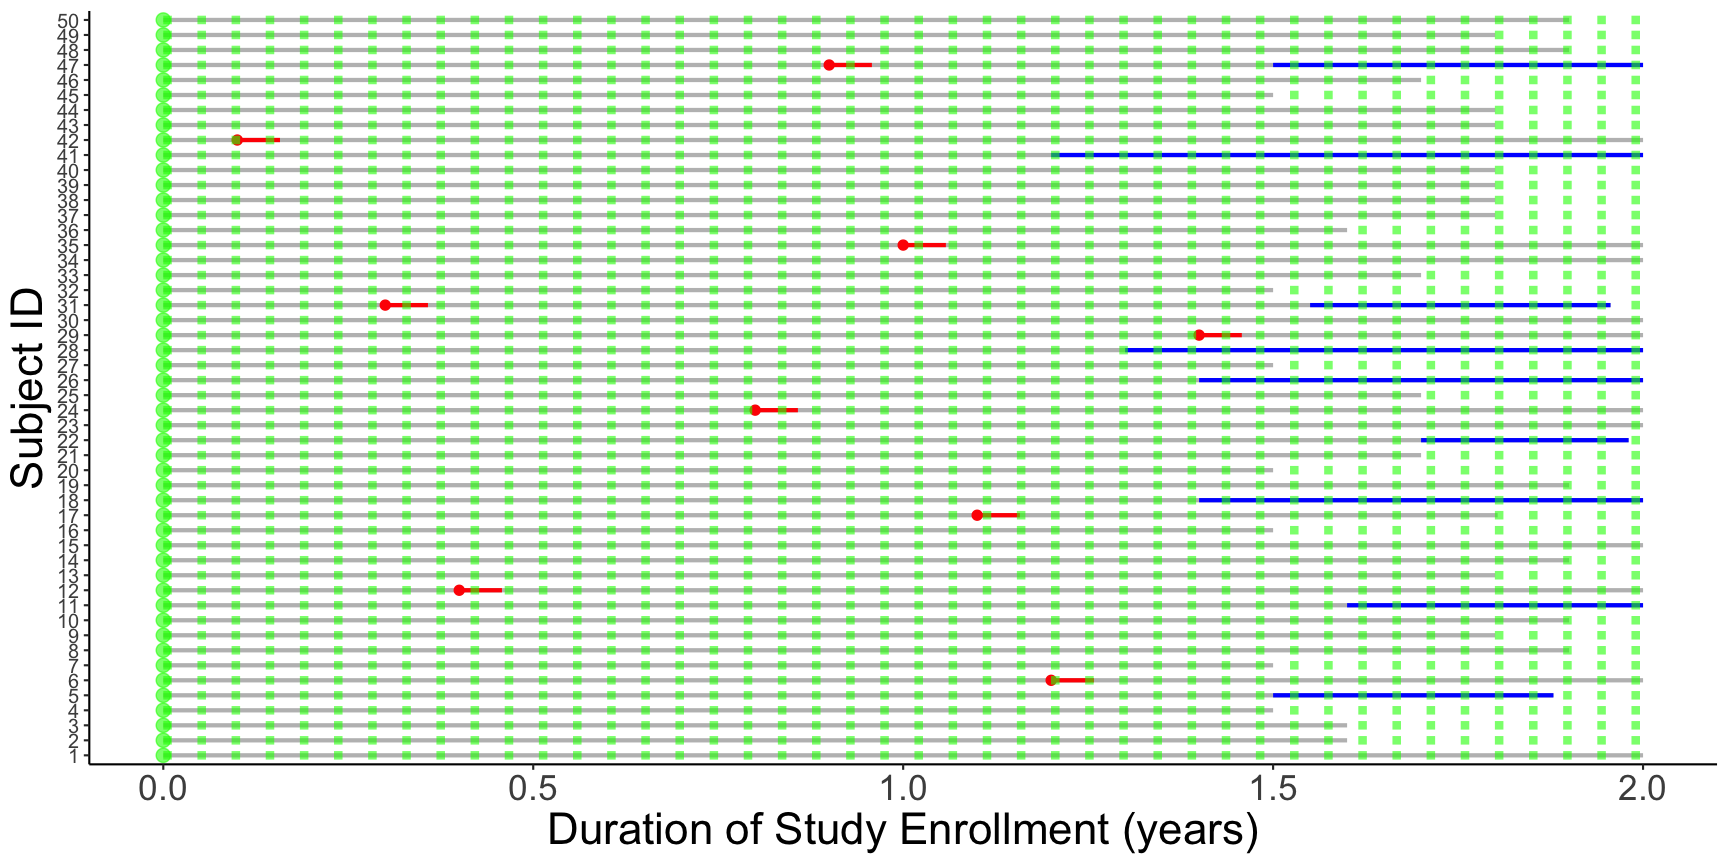
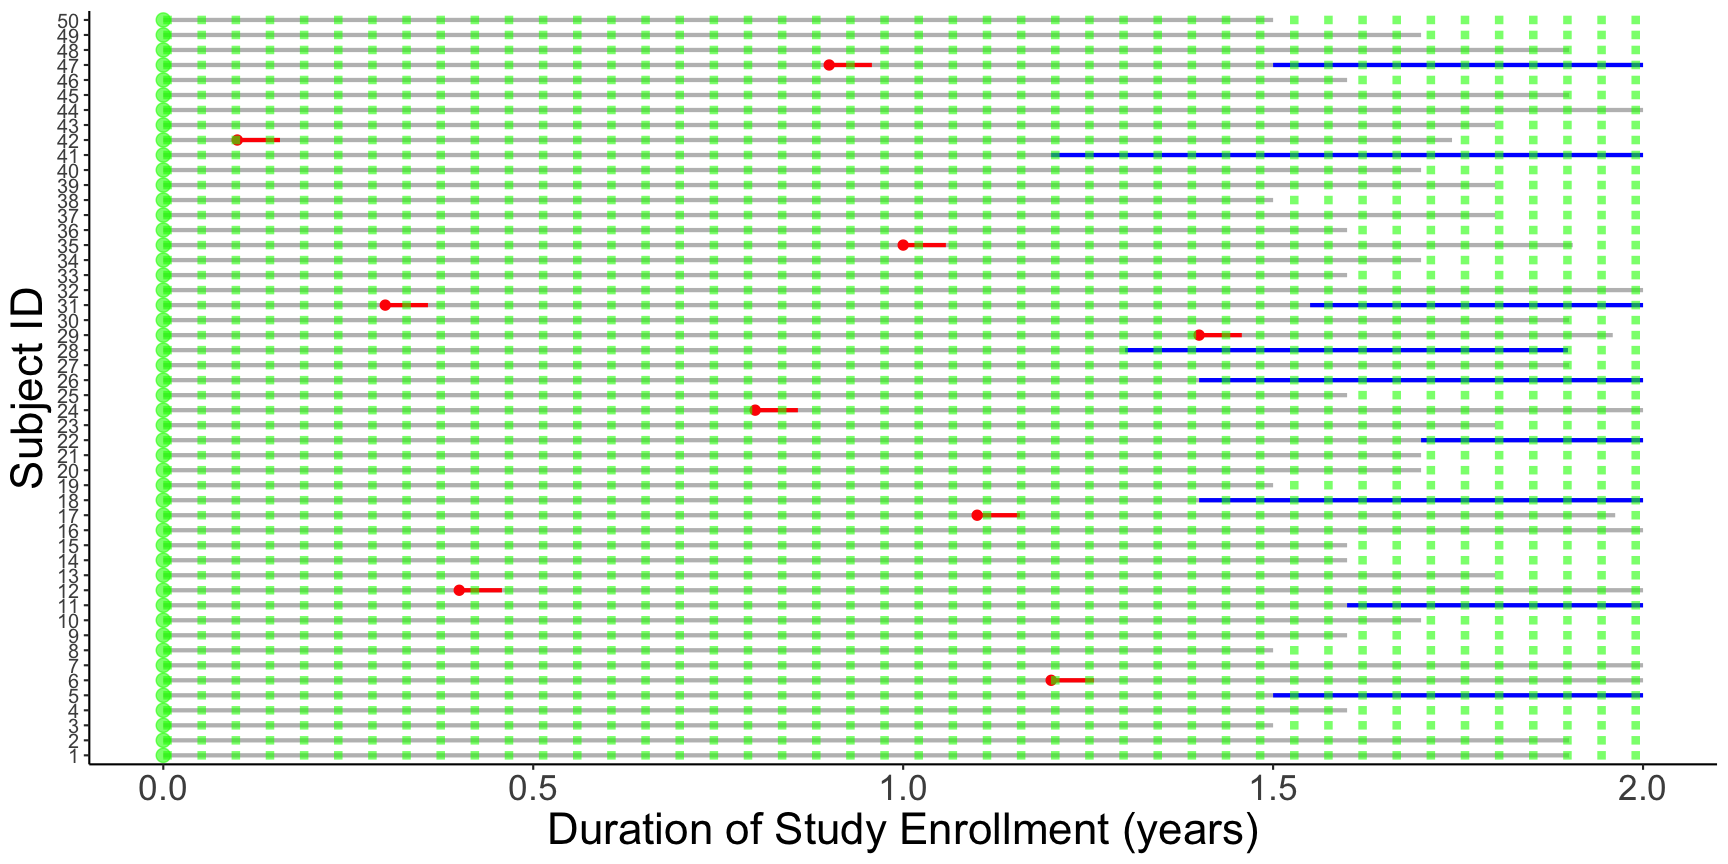
Fix histogram seed and binwidth.

diff --git a/measures_of_disease_in_epidemiology_2019_bjk.html b/measures_of_disease_in_epidemiology_2019_bjk.html
@@ -19,7 +19,7 @@ class: center, middle, inverse, title-slide
 ## <hr/>
 ### Brendan J. Kelly
 ### Infectious Diseases &amp; Epidemiology<br/><br/><img src="penn_logos/Penn-Shield-Logotype-White-over-Blue-RGB-Expanded.svg" width="160" />
-### updated: 2019-10-12
+### updated: 2019-10-13
 
 ---
 
@@ -37,9 +37,6 @@ class: center, middle, inverse, title-slide
 ---
 
 Notes from John:
-
-
-b.       It would be good to have a separate slide on 'person time' and calculating person time.
 
 c.       I think we should use the term "Risk Difference" instead of "Absolute risk reduction."  This should always be "Ie-Iu" but in one of the examples in the lecture, it's reversed and it's presented as "Iu-Ie" which was confusing to them.  We could also define both terms and say RD=Ie-Iu and then absolute risk reduction has to do with the way in which the question is phrased (i.e., improvement is a good outcome or adverse event where the outcome is bad).
 
@@ -281,7 +278,11 @@ What makes standard deviation greater?
 
 ## Characterizing Continuous Data: Skewed or Uniform &lt;hr/&gt;
 
-- “Non-parametric” data have a mean and standard deviation, but these parameters do NOT characterize the data well.
+- “Non-parametric” data have a mean and standard deviation, but these parameters do NOT characterize the data well:  
+
+    - **skewed** data: distrubtion not symmetric around a central value  
+    
+    - **uniform** data: distributed with equal probability of each value across whole range of values  
 
 - For uniform or skewed data, we prefer to use **median** and **interquartile range (IQR)** to describe the distribution of a continuous variable because these are less affected by extreme values. 
   
@@ -434,7 +435,7 @@ class: inverse, center, middle
     
     - incomplete follow-up (abbreviated grey lines on plot)
     
-    - at end of study, subjects started on _Pneumocystis_ prophylaxis (blue lines on plot)  
+    - towards end of study, some subjects started on _Pneumocystis_ prophylaxis (blue lines on plot)  
 
 
 ---
@@ -587,7 +588,7 @@ class: inverse, center, middle
     
     - incomplete follow-up (abbreviated grey lines on plot)
     
-    - at end of study, subjects started on _Pneumocystis_ prophylaxis (blue lines on plot)  
+    - towards end of study, some subjects started on _Pneumocystis_ prophylaxis (blue lines on plot)  
 
 
 
@@ -709,7 +710,6 @@ class: inverse, center, middle
 - Can you tell prevalence from incidence?
 
 
-
 ---
 
 background-image: url(figs/bathtub_labelled.svg)
@@ -792,8 +792,8 @@ class: inverse, center, middle
 
 ---
 
-<div id="htmlwidget-6c891448debd6a18910b" style="width:1080px;height:648px;" class="grViz html-widget"></div>
-<script type="application/json" data-for="htmlwidget-6c891448debd6a18910b">{"x":{"diagram":"digraph {\n\ngraph [layout = \"neato\",\n       outputorder = \"edgesfirst\",\n       bgcolor = \"white\"]\n\nnode [fontname = \"Helvetica\",\n      fontsize = \"10\",\n      shape = \"circle\",\n      fixedsize = \"true\",\n      width = \"0.5\",\n      style = \"filled\",\n      fillcolor = \"aliceblue\",\n      color = \"gray70\",\n      fontcolor = \"gray50\"]\n\nedge [fontname = \"Helvetica\",\n     fontsize = \"8\",\n     len = \"1.5\",\n     color = \"gray80\",\n     arrowsize = \"0.5\"]\n\n  \"1\" [label = \"Study\nDesign\", color = \"black\", fontsize = \"6\", fontcolor = \"black\", fillcolor = \"#E5E5E5\", pos = \"-3,0!\"] \n  \"2\" [label = \"Cohort\", color = \"black\", fontsize = \"6\", fontcolor = \"black\", fillcolor = \"#E5E5E5\", pos = \"-2,0!\"] \n  \"3\" [label = \"Randomized\nControlled\nTrial\", color = \"black\", fontsize = \"5.5\", fontcolor = \"black\", fillcolor = \"#E5E5E5\", pos = \"-2,1!\"] \n  \"4\" [label = \"Case-\nControl\", color = \"black\", fontsize = \"6\", fontcolor = \"black\", fillcolor = \"#E5E5E5\", pos = \"-2,-1!\"] \n  \"5\" [label = \"Denominator\nKnown\", color = \"black\", fontsize = \"6\", fontcolor = \"black\", fillcolor = \"#00FF00\", pos = \"-1,0.5!\"] \n  \"6\" [label = \"Denominator\nNOT Known\", color = \"black\", fontsize = \"6\", fontcolor = \"black\", fillcolor = \"#1E90FF\", pos = \"-1,-0.5!\"] \n  \"7\" [label = \"Measure\nOutcome\nIncidence\", color = \"black\", fontsize = \"6\", fontcolor = \"black\", fillcolor = \"#E5E5E5\", pos = \"0,0.5!\"] \n  \"8\" [label = \"Measure\nExposure\nOdds\", color = \"black\", fontsize = \"6\", fontcolor = \"black\", fillcolor = \"#E5E5E5\", pos = \"0,-0.5!\"] \n  \"9\" [label = \"Relative\nRisk\", color = \"black\", fontsize = \"6\", fontcolor = \"black\", fillcolor = \"#E5E5E5\", pos = \"1,0.5!\"] \n  \"10\" [label = \"Odds\nRatio\", color = \"black\", fontsize = \"6\", fontcolor = \"black\", fillcolor = \"#E5E5E5\", pos = \"1,-0.5!\"] \n  \"11\" [label = \"AR\nARR\nNNT\", color = \"black\", fontsize = \"6\", fontcolor = \"black\", fillcolor = \"#E5E5E5\", pos = \"2,0.5!\"] \n\"1\"->\"2\" [color = \"black\"] \n\"1\"->\"3\" [color = \"black\"] \n\"1\"->\"4\" [color = \"black\"] \n\"2\"->\"5\" [color = \"black\"] \n\"3\"->\"5\" [color = \"black\"] \n\"4\"->\"6\" [color = \"black\"] \n\"5\"->\"7\" [color = \"black\"] \n\"6\"->\"8\" [color = \"black\"] \n\"7\"->\"9\" [color = \"black\"] \n\"8\"->\"10\" [color = \"black\"] \n\"9\"->\"11\" [color = \"black\"] \n}","config":{"engine":"dot","options":null}},"evals":[],"jsHooks":[]}</script>
+<div id="htmlwidget-579c5723c32f497538f2" style="width:1080px;height:648px;" class="grViz html-widget"></div>
+<script type="application/json" data-for="htmlwidget-579c5723c32f497538f2">{"x":{"diagram":"digraph {\n\ngraph [layout = \"neato\",\n       outputorder = \"edgesfirst\",\n       bgcolor = \"white\"]\n\nnode [fontname = \"Helvetica\",\n      fontsize = \"10\",\n      shape = \"circle\",\n      fixedsize = \"true\",\n      width = \"0.5\",\n      style = \"filled\",\n      fillcolor = \"aliceblue\",\n      color = \"gray70\",\n      fontcolor = \"gray50\"]\n\nedge [fontname = \"Helvetica\",\n     fontsize = \"8\",\n     len = \"1.5\",\n     color = \"gray80\",\n     arrowsize = \"0.5\"]\n\n  \"1\" [label = \"Study\nDesign\", color = \"black\", fontsize = \"6\", fontcolor = \"black\", fillcolor = \"#E5E5E5\", pos = \"-3,0!\"] \n  \"2\" [label = \"Cohort\", color = \"black\", fontsize = \"6\", fontcolor = \"black\", fillcolor = \"#E5E5E5\", pos = \"-2,0!\"] \n  \"3\" [label = \"Randomized\nControlled\nTrial\", color = \"black\", fontsize = \"5.5\", fontcolor = \"black\", fillcolor = \"#E5E5E5\", pos = \"-2,1!\"] \n  \"4\" [label = \"Case-\nControl\", color = \"black\", fontsize = \"6\", fontcolor = \"black\", fillcolor = \"#E5E5E5\", pos = \"-2,-1!\"] \n  \"5\" [label = \"Denominator\nKnown\", color = \"black\", fontsize = \"6\", fontcolor = \"black\", fillcolor = \"#00FF00\", pos = \"-1,0.5!\"] \n  \"6\" [label = \"Denominator\nNOT Known\", color = \"black\", fontsize = \"6\", fontcolor = \"black\", fillcolor = \"#1E90FF\", pos = \"-1,-0.5!\"] \n  \"7\" [label = \"Measure\nOutcome\nIncidence\", color = \"black\", fontsize = \"6\", fontcolor = \"black\", fillcolor = \"#E5E5E5\", pos = \"0,0.5!\"] \n  \"8\" [label = \"Measure\nExposure\nOdds\", color = \"black\", fontsize = \"6\", fontcolor = \"black\", fillcolor = \"#E5E5E5\", pos = \"0,-0.5!\"] \n  \"9\" [label = \"Relative\nRisk\", color = \"black\", fontsize = \"6\", fontcolor = \"black\", fillcolor = \"#E5E5E5\", pos = \"1,0.5!\"] \n  \"10\" [label = \"Odds\nRatio\", color = \"black\", fontsize = \"6\", fontcolor = \"black\", fillcolor = \"#E5E5E5\", pos = \"1,-0.5!\"] \n  \"11\" [label = \"AR\nRD\nNNT\", color = \"black\", fontsize = \"6\", fontcolor = \"black\", fillcolor = \"#E5E5E5\", pos = \"2,0.5!\"] \n\"1\"->\"2\" [color = \"black\"] \n\"1\"->\"3\" [color = \"black\"] \n\"1\"->\"4\" [color = \"black\"] \n\"2\"->\"5\" [color = \"black\"] \n\"3\"->\"5\" [color = \"black\"] \n\"4\"->\"6\" [color = \"black\"] \n\"5\"->\"7\" [color = \"black\"] \n\"6\"->\"8\" [color = \"black\"] \n\"7\"->\"9\" [color = \"black\"] \n\"8\"->\"10\" [color = \"black\"] \n\"9\"->\"11\" [color = \"black\"] \n}","config":{"engine":"dot","options":null}},"evals":[],"jsHooks":[]}</script>
 
 
 
@@ -825,9 +825,9 @@ class: inverse, center, middle
 .pull-left[
 - Relative Risk (RR)= [A/(A+B) / C/(C+D)]
 
-- Absolute Risk Reduction (ARR) = [A/(A+B) – C/(C+D)]
+- risk difference (RD) = [A/(A+B) – C/(C+D)]
 
-- Number Needed to Treat (NNT)= 1/ARR
+- Number Needed to Treat (NNT)= 1/RD
 ]
 
 .pull-right[
@@ -851,30 +851,30 @@ background-size: contain
 
 ---
 
-## Absolute Risk (AR) &amp; Reduction (ARR) &lt;hr/&gt;
+## Absolute Risk (AR) &amp; Reduction (RD) &lt;hr/&gt;
 
 - Absolute risk (AR): risk of developing a given disease over a period of time
 
     - this is the incidence!!!
     - if you have a 1 in 10 chance of developing skin cancer in your lifetime, you are said to have a 10% absolute risk
 
-- Absolute risk reduction (ARR): difference in risk between the treatment/ exposure group and the control group
+- risk difference (RD): difference in risk between the treatment/ exposure group and the control group
 
-    - if 2 in 10 are cured in the control group and 3 in 10 in the treatment group, the ARR is 3/10 – 2/10 = 10%
+    - if 2 in 10 are cured in the control group and 3 in 10 in the treatment group, the RD is 3/10 – 2/10 = 10%
 
 ---
 
 ## Number Needed to Treat (NNT) &lt;hr/&gt;
 
-- Number needed to treat (NNT): Number of patients who need to be treated for one person to benefit from the treatment  (= 1/ARR)
+- Number needed to treat (NNT): Number of patients who need to be treated for one person to benefit from the treatment  (= 1/RD)
 
-    - using ARR numbers above, NNT = 1/ARR = 1/0.1 = 10
+    - using RD numbers above, NNT = 1/RD = 1/0.1 = 10
     - in this example, you need to treat 10 people to prevent one bad outcome
 
 - Return to example of CD4 count and PCP… imagine a pill that can maintain CD4 count above 250… what’s the NNT to prevent one case of PCP?
 
     - RR = (26 / 50) / (2 / 50) = 13
-    - ARR = (26 / 50) - (2 / 50) = 0.48
+    - RD = (26 / 50) - (2 / 50) = 0.48
     - NNT = 1 / 0.48 = 2.08
 
 ---
@@ -883,7 +883,7 @@ background-size: contain
 
 - Odds Ratio (OR)= (A/C)/(B/D) = AD / BC
 
-- Absolute Risk Reduction (ARR) = not appropriate to calculate
+- risk difference (RD) = not appropriate to calculate
 
 - Number Needed to Treat (NNT) = not appropriate to calculate
 
